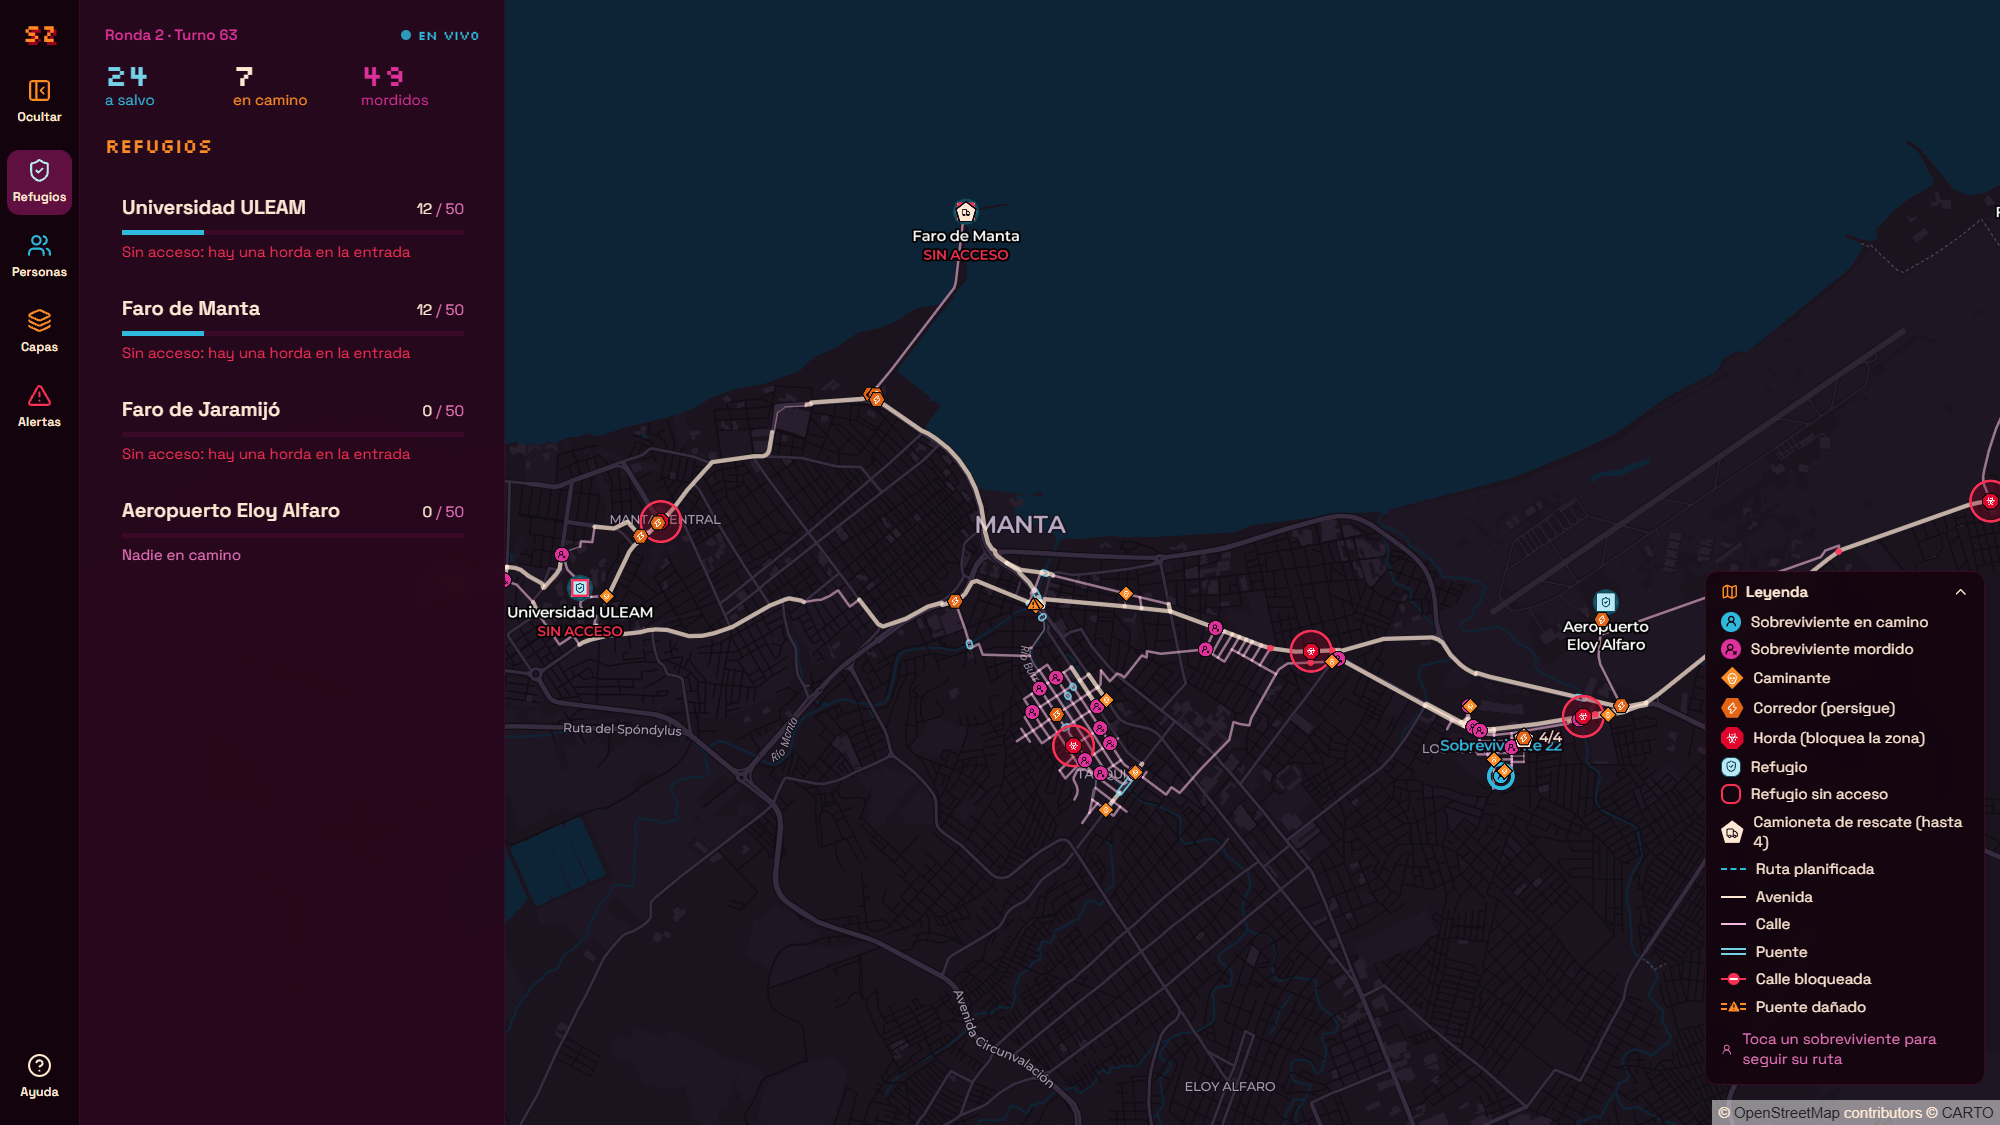
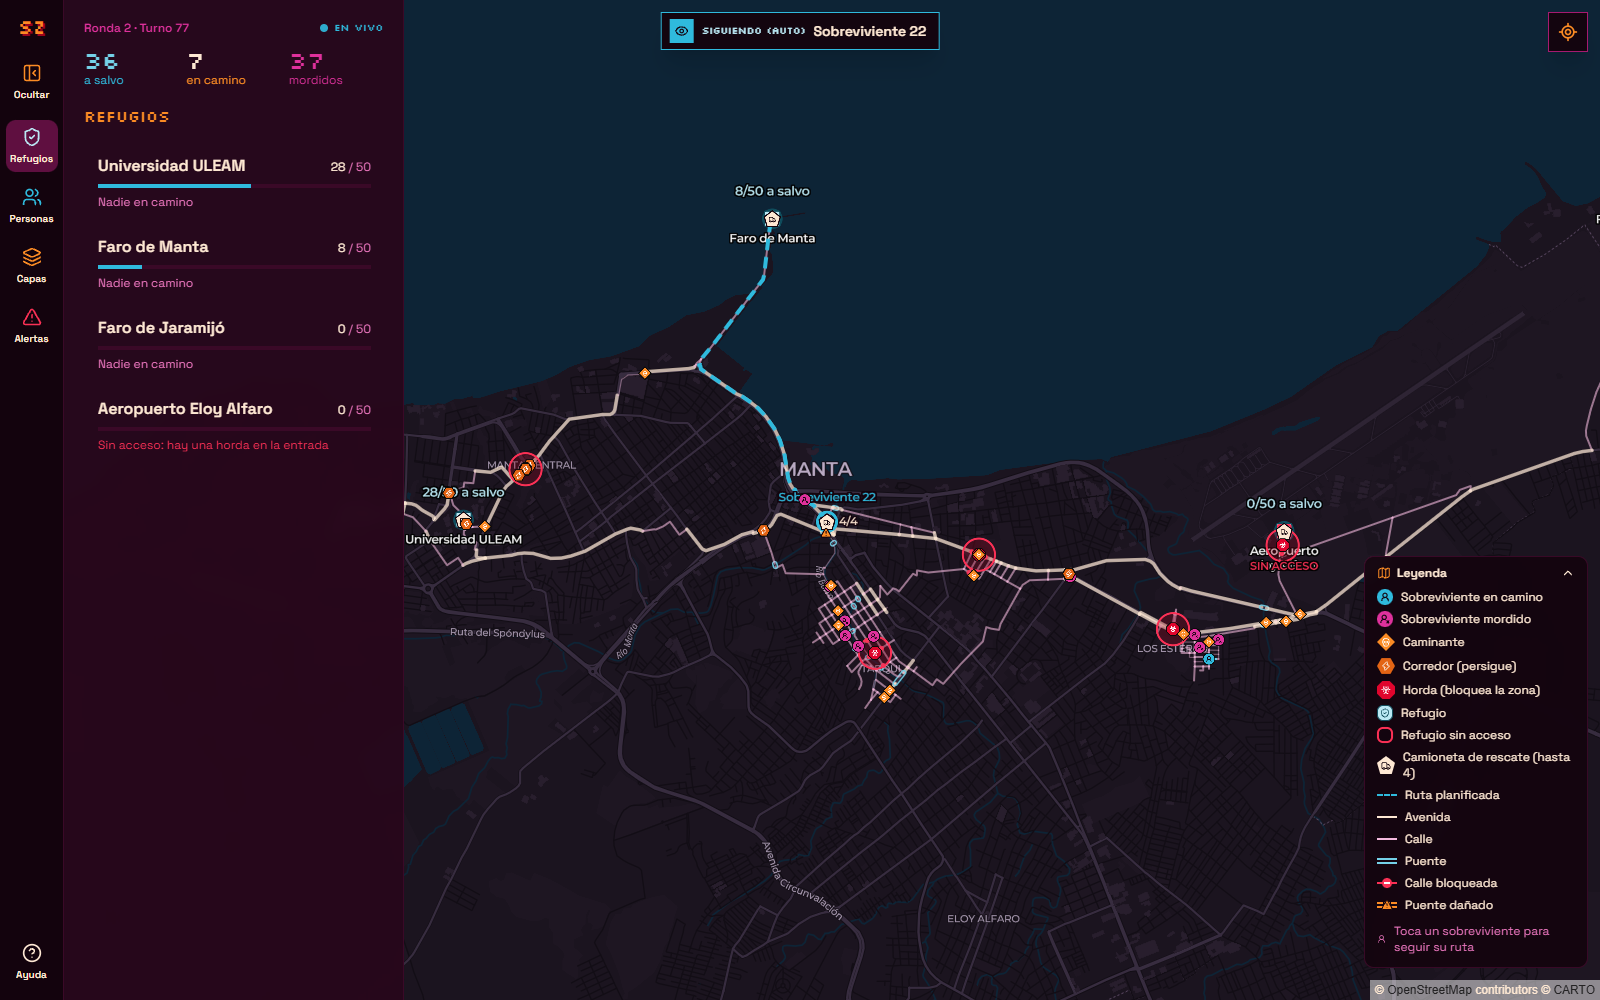
docs: refresh live map capture and record real event spend from the Budget history

diff --git a/docs/costos.md b/docs/costos.md
@@ -156,17 +156,20 @@ AWS; no se presupone un contrato comercial.
 
 ## 4. Gasto real del evento
 
-**Unos USD 0.02 hasta el 28 de octubre de 2026.** La capa gratuita y los créditos de la cuenta nueva cubren casi todo el uso del evento; no se afirma el saldo de créditos.
+**USD 0.50 en octubre de 2026, hasta la mañana del 28** (mes en curso, según el historial del Budget). La capa gratuita y los créditos de la cuenta nueva cubren casi todo el uso del evento; no se afirma el saldo de créditos.
+
+![Historial de costos mensuales del Budget: octubre de 2026 con USD 0.50 reales sobre USD 20 presupuestados, y USD 0.00 en los doce meses anteriores](costos-reales.png)
 
 | Dato | Valor |
 |---|---|
-| Período | Octubre de 2026 hasta la madrugada del 28 (hora de Ecuador) |
-| Fuente y fecha de consulta | AWS Budgets y Cost Explorer (CLI, solo lectura), 28 de octubre de 2026 |
-| Gasto real del mes según el Budget | **USD 0.019** |
-| Consumo por servicio en Cost Explorer (`Unblended cost`, agrupado por servicio) | USD 0.00 en cada servicio: Lambda, API Gateway, DynamoDB, CloudFront, S3, CloudWatch, EventBridge, SNS |
+| Período | Octubre de 2026 hasta la mañana del 28 (hora de Ecuador) |
+| Fuente y fecha de consulta | Historial de costos mensuales de AWS Budgets (consola), 28 de octubre de 2026 |
+| Gasto real del mes según el Budget | **USD 0.50** de USD 20 presupuestados (varianza de USD 19.50, el 97.49 % del presupuesto sin usar) |
+| Meses anteriores | USD 0.00 de octubre de 2025 a septiembre de 2026: la cuenta no tiene otras cargas |
+| Lectura anterior | USD 0.019 en la madrugada del 28 (CLI, solo lectura); Cost Explorer mostraba USD 0.00 por servicio, por su demora de hasta 24 horas |
 | Budget configurado | `spookython-mensual`: USD 20 por mes, con alertas al 50 % y 80 % del gasto real y al 100 % del pronóstico |
-| Importe neto atribuible al evento | ~USD 0.02 |
-| Captura | `docs/budget.png` muestra el Budget; la captura del gasto queda pendiente |
+| Importe neto atribuible al evento | USD 0.50 |
+| Capturas | `docs/budget.png` muestra el Budget y sus alertas; `docs/costos-reales.png`, el historial de gasto |
 
 Cost Explorer puede tardar hasta 24 horas en mostrar el último gasto, y cada consulta por API cuesta USD 0.01 (este registro hizo dos). La cuenta no tiene otras cargas, así que todo el gasto se atribuye al proyecto.
 

diff --git a/README.md b/README.md
@@ -283,8 +283,8 @@ AWS Budget con alerta desde el primer día (alertas por SNS al 50 %, 80 % y 100 
 30 días** de demo continua y uso ligero del mapa, antes de créditos y franquicias
 gratuitas. Incluye supuestos no medidos y tarifas de referencia pendientes de
 confirmación regional; no es una factura ni un máximo. **Gasto real del evento:
-unos USD 0.02** hasta el 28 de octubre (AWS Budgets y Cost Explorer), bajo un Budget
-de USD 20 con alertas. Lo que cuesta es la demo encendida (~USD 2.85 por día sin capa
+USD 0.50** en octubre hasta la mañana del 28 (historial del AWS Budget, captura en
+`docs/costos-reales.png`), bajo un Budget de USD 20 con alertas. Lo que cuesta es la demo encendida (~USD 2.85 por día sin capa
 gratuita); apagada, el costo vuelve a casi cero.
 
 ## Limitaciones
